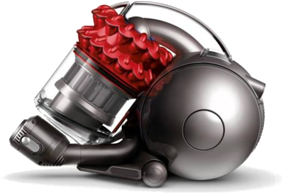
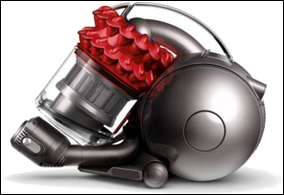
Updated autocrop example so its clearer

diff --git a/guide/autocrop.md b/guide/autocrop.md
@@ -16,7 +16,7 @@ or to remove a background of a custom color you could do:
 image.autocrop(new Color(255,235,10))
 ```
 
-As always a picture is worth a thousand bytecodes. It's hard to see the white background example (obviously) so I've placed it inside gray table cells so the result is more obvious.
+As always a picture is worth a thousand bytecodes. It's hard to see the white background in this example so I've added a 1 pixel black border around the output so its clearer to see how the white space was removed.
 
 <table>
 <tr>
@@ -28,11 +28,11 @@ As always a picture is worth a thousand bytecodes. It's hard to see the white ba
 </th>
 </tr>
 <tr>
-<th>
+<td>
     <img src="https://raw.github.com/sksamuel/scrimage/master/examples/images/dyson.png"/>
-</th>
-<th>
+</td>
+<td>
     <img src="https://raw.github.com/sksamuel/scrimage/master/examples/images/dyson_autocropped.png"/>
-</th>
+</td>
 </tr>
 </table>
